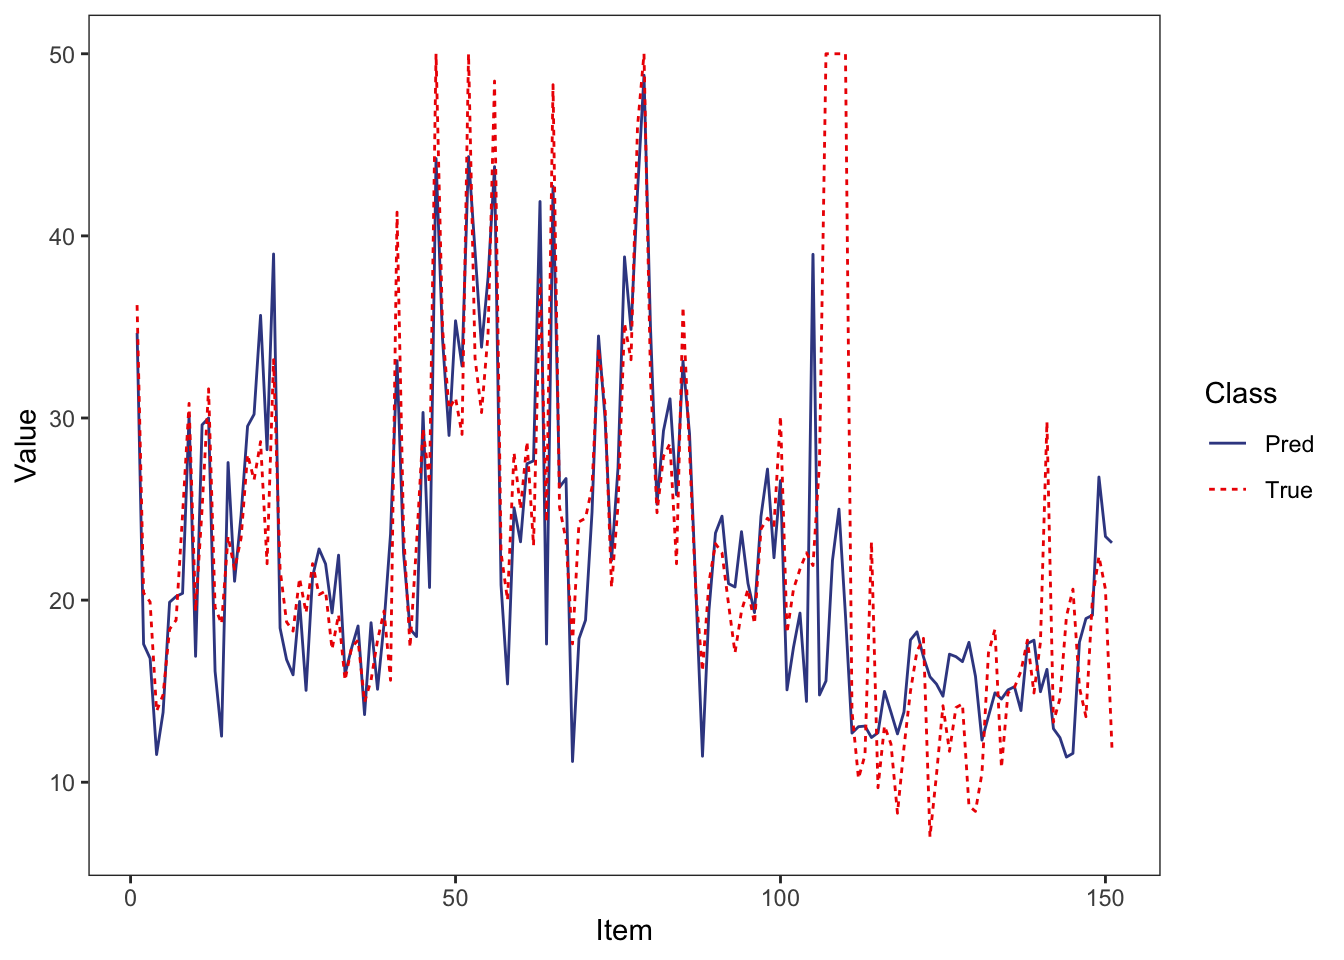
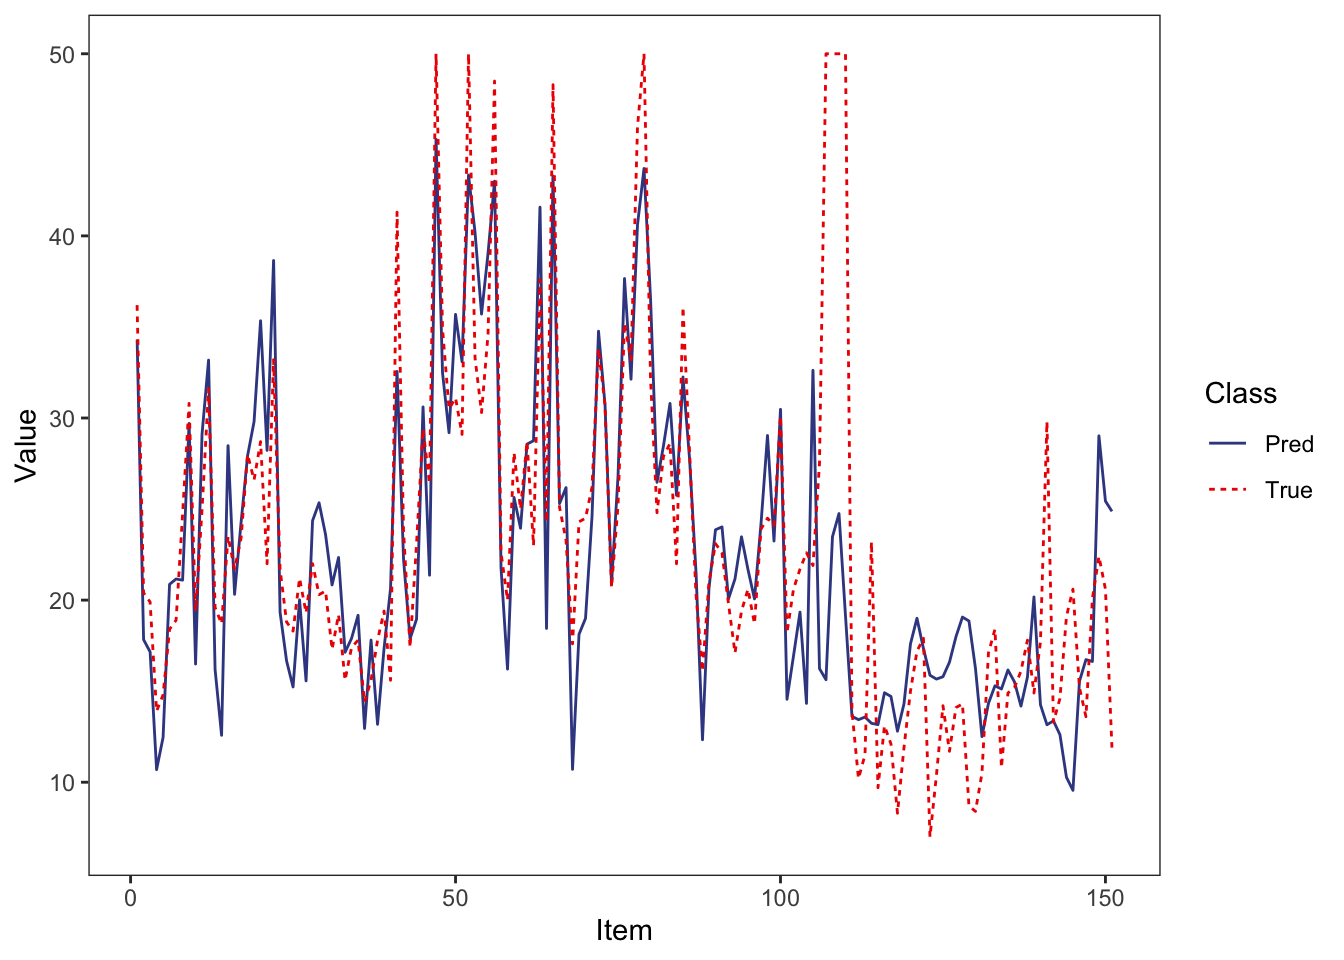
添加GPU训练的相关解释

diff --git a/content/post/2022-05-21-deep-learning-with-r-for-beginners/index.html b/content/post/2022-05-21-deep-learning-with-r-for-beginners/index.html
@@ -41,7 +41,7 @@ slug: deep-learning-with-r-for-beginners
 <p>近年来深度学习在人工智能领域飞速发展，各行业的学者、研究人员纷纷涌入研究热潮。本文将从 R 语言角度来介绍深度学习并解决以下几个问题：</p>
 <ul>
 <li>什么是深度学习？</li>
-<li>为什么选择 R 语言做深度学习？</li>
+<li>相关深度学习包有哪些？</li>
 <li>如何配置工作环境？</li>
 <li>如何使用神经网络建立模型？</li>
 </ul>
@@ -103,7 +103,9 @@ slug: deep-learning-with-r-for-beginners
 </tbody>
 </table>
 <p>如果读者对这些包感兴趣，可以直接点击名称进入学习。或者阅读程显毅老师的中文书籍《<a href="https://book.douban.com/subject/27085471/">深度学习与 R 语言</a>》，该书介绍了各种 R 语言深度学习包并结合实例分析。</p>
+<blockquote>
 <p>本文主要使用深度学习框架 <a href="https://keras.io/">Keras</a>，并将 <a href="https://www.tensorflow.org/?hl=zh-cn">TensorFlow</a> 作为后端引擎。与其他包相比，Keras 的优点在于它的易用性。它是最流行和发展最快的深度学习框架之一，被广泛推荐为入门深度学习的最佳工具。它能够在 TensorFlow，CNTK，Theano 或 MXNet 上运行。</p>
+</blockquote>
 </div>
 <div id="配置工作环境" class="section level2">
 <h2>配置工作环境</h2>
@@ -156,6 +158,9 @@ packageVersion(&#39;tensorflow&#39;)</code></pre>
 <div id="简单神经网络建模" class="section level2">
 <h2>简单神经网络建模</h2>
 <p>本节将从一个简单的<a href="https://github.com/fmmattioni/deep-learning-with-r-notebooks/blob/master/notebooks/3.6-predicting-house-prices.Rmd">回归例子</a>来介绍如何在 R 中使用 keras 包进行深度学习。</p>
+<blockquote>
+<p>该案例是在 CPU 下进行的。如果你的设备有 GPU，并想用 GPU 训练模型。你不需要修改以下的代码，只需前期安装 GPU 版本的 TensorFlow，默认情况下，运算会优先使用 GPU。</p>
+</blockquote>
 <p>知识点包括：</p>
 <ol style="list-style-type: decimal">
 <li>数据导入与数据处理。</li>
@@ -177,7 +182,7 @@ library(magrittr)</code></pre>
 <pre class="r"><code>data(&quot;BostonHousing&quot;)
 data &lt;- BostonHousing
 data %&lt;&gt;% mutate_if(is.factor, as.numeric)
-knitr::kable(head(data[,1:12]))</code></pre>
+knitr::kable(head(data[,1:12])) #由于呈现不了所有列，这里只展示 12 列的前 6 行数据。</code></pre>
 <table>
 <colgroup>
 <col width="10%" />
@@ -377,10 +382,10 @@ test &lt;- scale(test, center = m, scale = s)</code></pre>
 <p>使用 <code>evaluate()</code> 评估模型，给出预测结果。计算真实值和预测值的均方误差。</p>
 <pre class="r"><code>model %&gt;% evaluate(test, testtarget)</code></pre>
 <pre><code>##   loss    mae 
-## 41.763  3.999</code></pre>
+## 42.571  4.185</code></pre>
 <pre class="r"><code>pred &lt;- predict(model,test) #预测结果
 mean((testtarget-pred)^2) #计算均方误差</code></pre>
-<pre><code>## [1] 41.76</code></pre>
+<pre><code>## [1] 42.57</code></pre>
 <p>通过 <a href="https://ggplot2.tidyverse.org/">ggplot2</a> 包将预测结果和真实结果可视化。</p>
 <pre class="r"><code>library(ggplot2)
 library(viridis)
